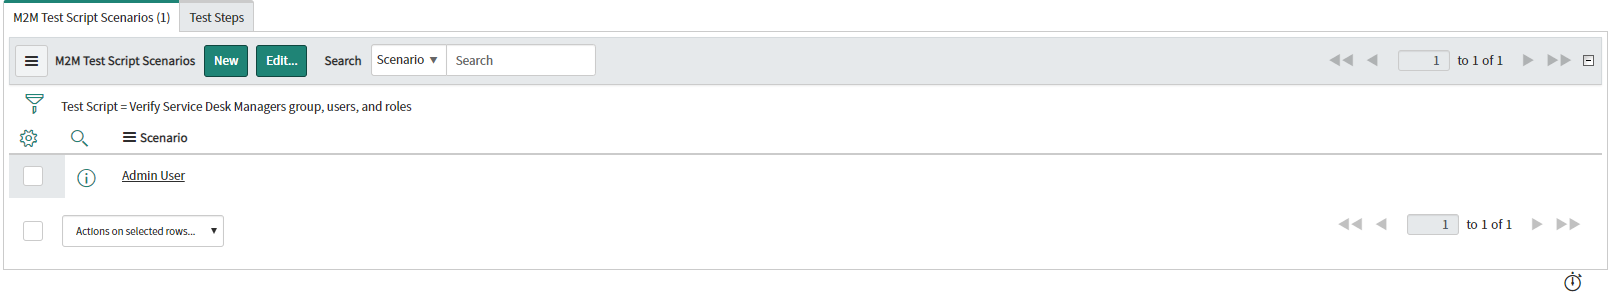
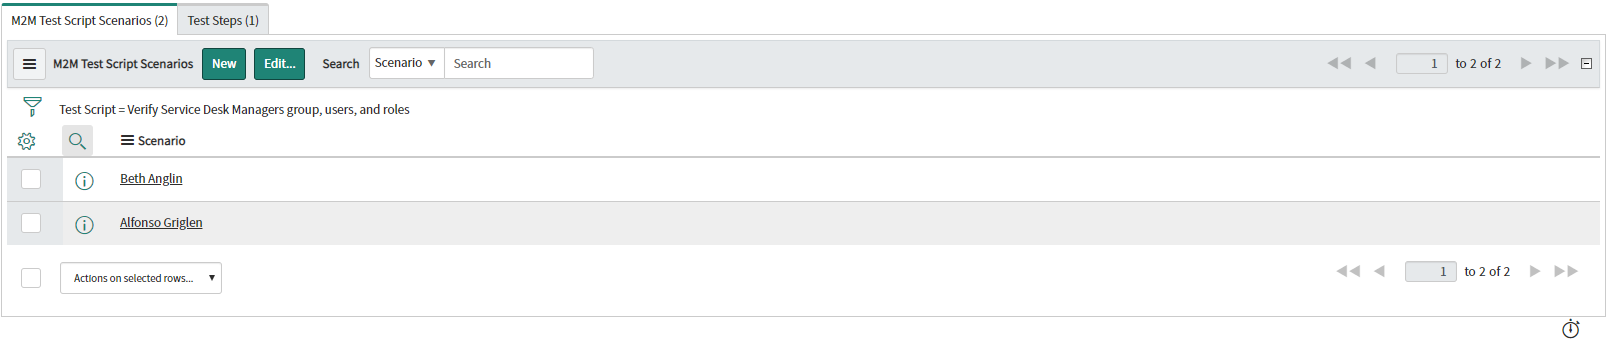
updated

Changed region(s): [[0.0, 0.0, 1.0, 1.0]]

diff --git a/guidebook.md b/guidebook.md
@@ -409,13 +409,21 @@ Description | Added the Test Scripts related list to the Story (rm_story) form's
 
 ![](images/scenario_form.PNG)
 
-**Name:** Admin User  
-**Personas:** admin  
-**Company:** ACME Americas (Your choice of a company)  
-**Prerequisites:** Must have the admin role.  
-**Description:** Designed to test as an ServiceNow admin user.  
+**Name:** Beth Anglin  
+**Personas:** itil user, Service Desk Manager  
+**Company:** ACME Americas    
+**Prerequisites:** Must have the "itil" role and be a member of the "Service Desk Managers" group.  
+**Description:** Use this user to test a Service Desk Manager.
 
-11. After creating the scenario let's go back to Test Script and Create M2M Test Script Scenario by pressing New button.  
+11. After Creating a Scenario with Beth Anglin we need to create Alissa Mountjoy and Alfonso Griglen. We will start with Alfonso Griglen. Fill in the fields with provided information.  
+
+**Name:** Alfonso Griglen  
+**Personas:** General user with no roles  
+**Company:** ACME China  
+**Prerequisites:** Make sure this user has no roles assigned to them.  
+**Description:** Basic user with no roles.  
+
+11. Let's go back to Test Script and Create M2M Test Script Scenarios by pressing New button.  
 
 ![](images/create_m2m_scenario.PNG)
 
@@ -423,7 +431,7 @@ Description | Added the Test Scripts related list to the Story (rm_story) form's
 
 ![](images/m2m_scenario_complete_form.PNG)  
 
-13. Now the Test Scripts, M2M Test Script Scenarios should have newly inserted Scenario of Admin User.  
+13. Now the Test Scripts, M2M Test Script Scenarios should have newly inserted Scenario of Beth Anglin. Do the same steps for Alfonso Griglen.  
 
 ![](images/test_script_m2m_scenarios.PNG)  
 
